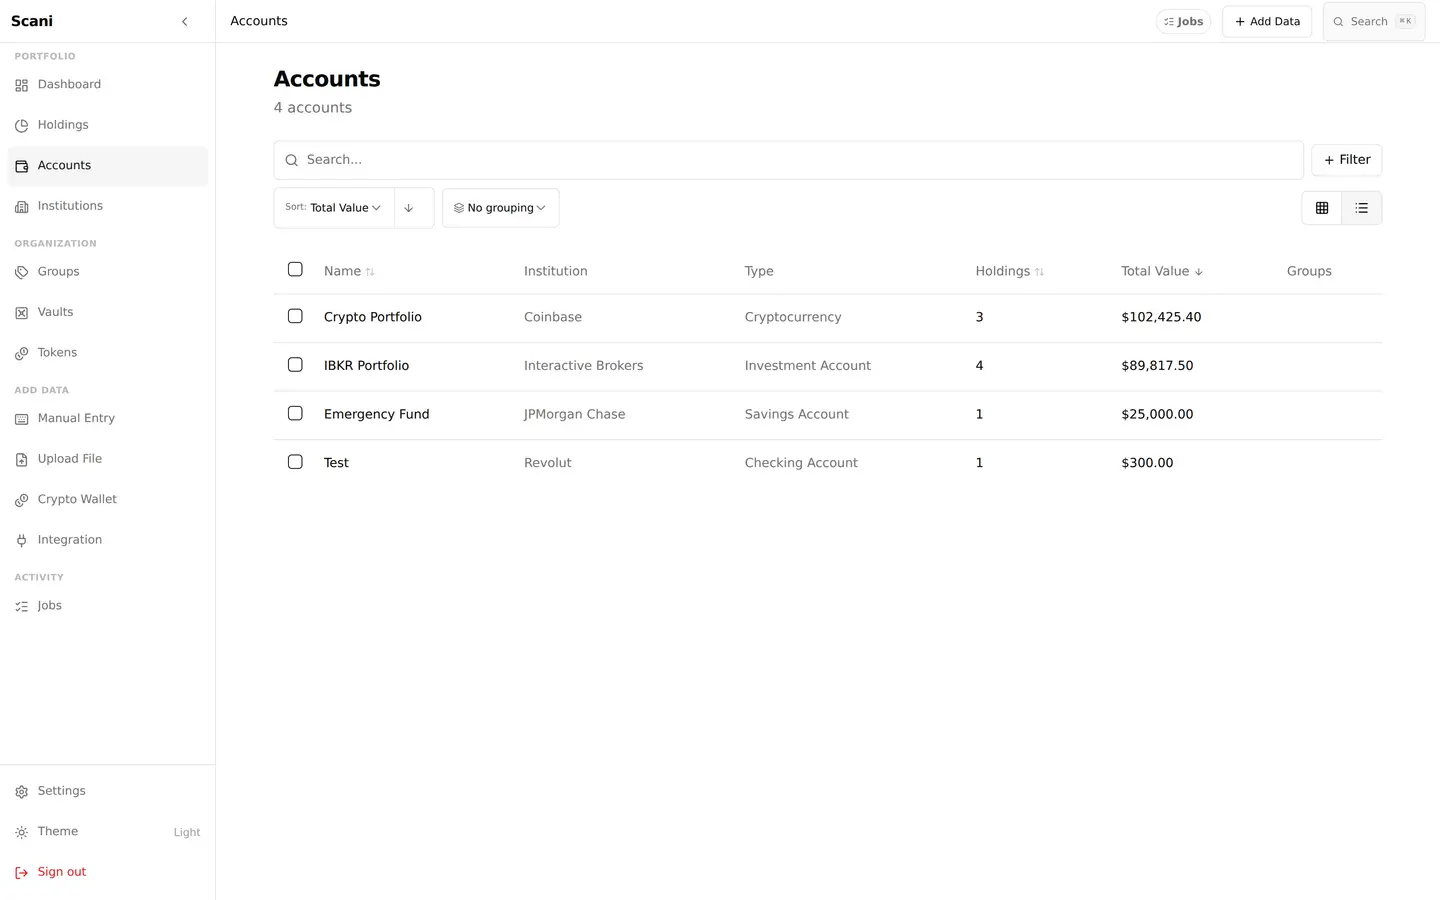
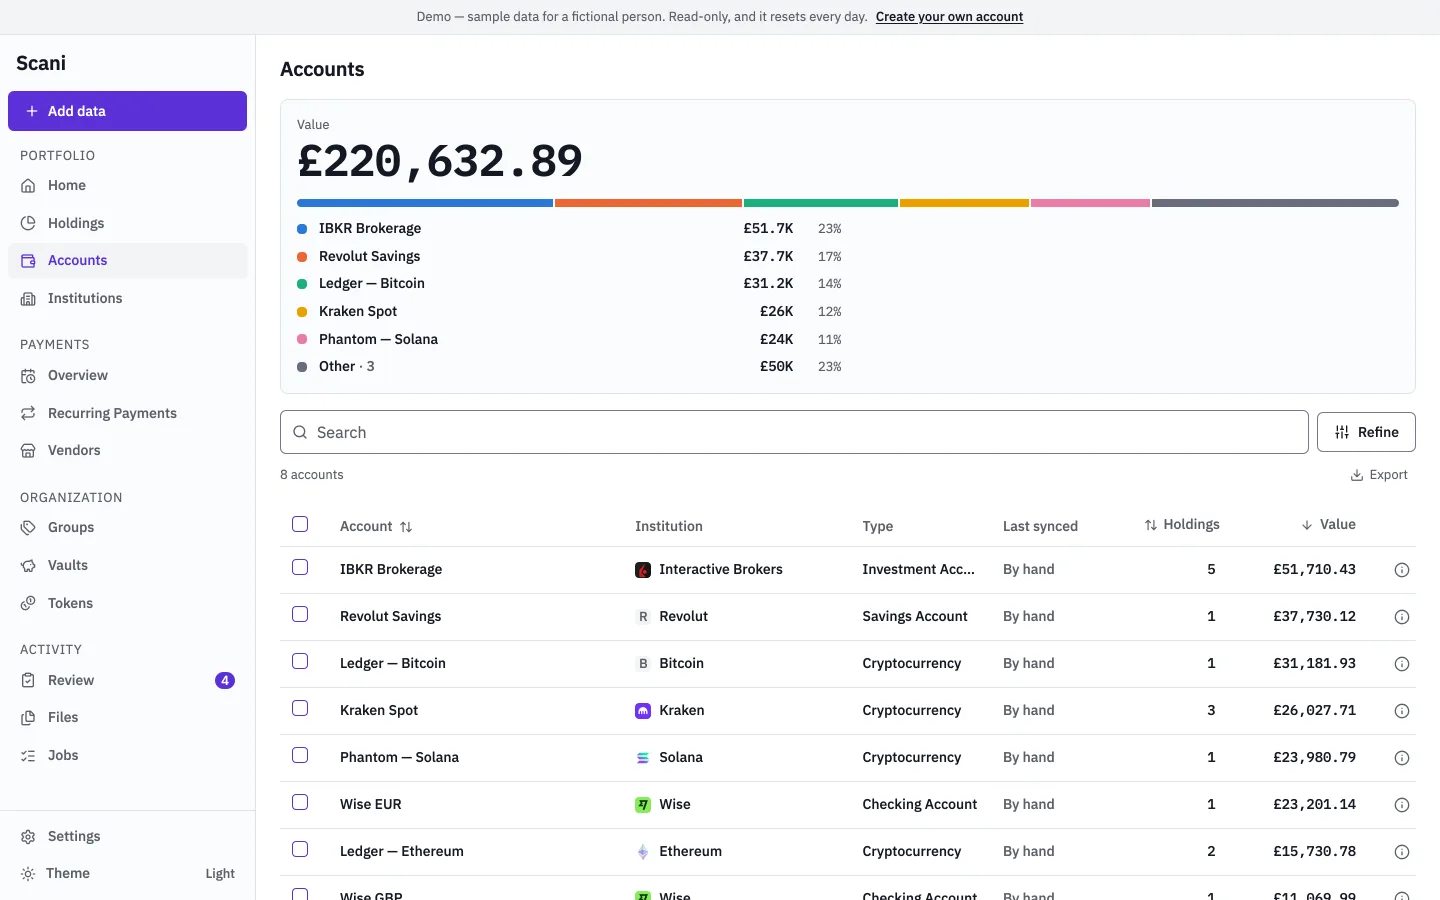
docs(readme): recapture demo screenshots and correct three claims (SC-468)
The committed screenshots were taken 2026-05-25 and show the pre-v3
interface. SC-82 fixed exactly this for the landing shots; these are a
different asset set and nothing pointed at them, because an out-of-date
image is not a broken one and no check can see the difference.

Recaptured from demo.scani.xyz, which is seeded from one fixture and
resets daily, so a re-run reproduces the same numbers. Added a fifth
screen for Money: recurring bills and expected income is what separates
this from a portfolio tracker, and no screenshot showed it.

Claims corrected against the code:

- The data-provider no longer exposes `pricing.*` or `ai.*`. Both were
  deleted in SC-587 and only `chains.*` survives, with no live caller.
  `apps/backend/data-provider/README.md:42` already said so; this file
  was the stale copy.
- Airwallex is a shipped connector and was missing from the brokerages
  and banks line. The integrations screenshot lists it first, so the
  prose contradicted the image beside it.
- ENS is reverse-resolution only, used to label Ethereum addresses.
  `packages/clients/providers/src/providers/etherscan/README.md:70`
  records that an ENS name is not accepted as input, so a reader who
  pastes one is refused.

The integrations caption described a catalog of exchanges, on-chain,
brokerages, pricing and AI. The page shows the 15 credentialed
connectors only; chains, pricing and AI take no per-user credential.
[…]

diff --git a/apps/e2e/scripts/capture-readme-shots.ts b/apps/e2e/scripts/capture-readme-shots.ts
@@ -1,0 +1,181 @@
+#!/usr/bin/env bun
+/**
+ * Recapture the README product screenshots from the public demo.
+ *
+ * The demo is what makes these reproducible: it is seeded from one fixture
+ * and resets on a schedule, so a run today and a run next month produce the
+ * same numbers. A local stack does not — the shots then depend on whatever
+ * that session happened to seed, and nothing downstream can tell a current
+ * screenshot from a stale one. The committed set drifted a full UI generation
+ * behind the product (captured 2026-05-25, pre-v3) without any check firing,
+ * because an out-of-date image is not a broken one.
+ *
+ *   cd apps/e2e && bun run shots:readme
+ *   cd apps/e2e && bun run shots:readme -- --slugs=dashboard --themes=dark
+ *   cd apps/e2e && bun run shots:readme -- --url=http://localhost:5173
+ *
+ * Writes `.github/assets/screenshots/<slug>-<theme>-desktop.webp`, which is
+ * what README.md's <picture> elements reference by name. Needs `cwebp`
+ * (`brew install webp`); Playwright emits PNG only.
+ *
+ * It lives here rather than in `scripts/` because `@playwright/test` is
+ * declared in this workspace and nowhere else. The hoisted linker would have
+ * let a root-level copy resolve `playwright` anyway and fail only the
+ * declaration check, on the public mirror, which is the first thing an
+ * outside contributor sees (SC-889).
+ */
+
+import { mkdir, rm, writeFile } from 'node:fs/promises';
+import { resolve } from 'node:path';
+import { chromium, type Page } from '@playwright/test';
+
+const REPO_ROOT = resolve(import.meta.dir, '../../..');
+const OUT_DIR = resolve(REPO_ROOT, '.github/assets/screenshots');
+
+/**
+ * `--url` rather than an env var, deliberately. `docs:check`'s env-coverage
+ * scan reads every `process.env.X` under `apps/` and warns on any name absent
+ * from `.env.example` or the env reference — and five tests assert
+ * `all N checks passed`, so a warning here reddens the whole gate. Documenting
+ * a capture-tool override beside the variables a self-hoster must set would be
+ * the worse fix: it is not one of them.
+ */
+const DEMO_URL = (parseValue('url') ?? 'https://demo.scani.xyz').replace(/\/$/, '');
+
+/**
+ * Captured at 2x and downsampled to this, which supersamples the text. GitHub
+ * renders a README image at roughly 830 CSS px, so 1440 still has headroom on
+ * a retina display without shipping a 2880px asset in the clone.
+ */
+const WIDTH = 1440;
+const VIEWPORT = { width: WIDTH, height: 900 };
+const THEMES = ['light', 'dark'] as const;
+type Theme = (typeof THEMES)[number];
+
+interface Shot {
+  slug: string;
+  path: string;
+  /**
+   * A heading the route renders only once its own data has resolved. Waiting
+   * on the app shell photographs a skeleton instead, and a skeleton is a
+   * plausible-looking screenshot rather than an error — which is the failure
+   * mode this whole script exists to make visible.
+   */
+  ready: string;
+}
+
+const SHOTS: Shot[] = [
+  // The dashboard renders no <h1>; "Top holdings" is the last card to resolve.
+  { slug: 'dashboard', path: '/', ready: 'Top holdings' },
+  { slug: 'holdings', path: '/holdings', ready: 'Holdings' },
+  { slug: 'accounts', path: '/accounts', ready: 'Accounts' },
+  { slug: 'money', path: '/payments', ready: 'Money' },
+  { slug: 'integrations', path: '/integrations', ready: 'Connect a service' },
+];
+
+function parseValue(flag: string): string | null {
+  const raw = process.argv.find((a) => a.startsWith(`--${flag}=`));
+  return raw ? raw.slice(flag.length + 3) : null;
+}
+
+function parseList(flag: string, known: string[]): string[] | null {
+  const raw = process.argv.find((a) => a.startsWith(`--${flag}=`));
+  if (!raw) return null;
+  const picked = raw
+    .slice(flag.length + 3)
+    .split(',')
+    .map((s) => s.trim())
+    .filter(Boolean);
+  for (const name of picked) {
+    if (!known.includes(name)) {
+      throw new Error(`Unknown --${flag} entry "${name}"; known: ${known.join(', ')}`);
+    }
+  }
+  return picked;
+}
+
+async function settle(page: Page): Promise<void> {
+  await page.waitForLoadState('networkidle');
+  await page.evaluate(() => document.fonts.ready);
+  await page.waitForTimeout(1500);
+}
+
+async function toWebp(pngPath: string, webpPath: string): Promise<void> {
+  const proc = Bun.spawnSync([
+    'cwebp',
+    '-quiet',
+    '-q',
+    '82',
+    '-resize',
+    String(WIDTH),
+    '0',
+    pngPath,
+    '-o',
+    webpPath,
+  ]);
+  if (proc.exitCode !== 0) {
+    throw new Error(
+      `cwebp failed on ${pngPath} (exit ${proc.exitCode}). Install it with \`brew install webp\`.\n${new TextDecoder().decode(
+        proc.stderr
+      )}`
+    );
+  }
+}
+
+async function main(): Promise<void> {
+  const slugs = parseList(
+    'slugs',
+    SHOTS.map((s) => s.slug)
+  );
+  const themes = (parseList('themes', [...THEMES]) ?? [...THEMES]) as Theme[];
+  const shots = slugs ? SHOTS.filter((s) => slugs.includes(s.slug)) : SHOTS;
+
+  await mkdir(OUT_DIR, { recursive: true });
+  console.log(`capture-readme-shots: ${DEMO_URL} -> ${OUT_DIR}`);
+
+  const browser = await chromium.launch();
+  let written = 0;
+
+  try {
+    for (const theme of themes) {
+      const context = await browser.newContext({
+        viewport: VIEWPORT,
+        deviceScaleFactor: 2,
+        colorScheme: theme,
+      });
+      // ThemeProvider reads this before first paint and only falls back to
+      // prefers-color-scheme when it is unset, so setting both is what makes
+      // the theme deterministic rather than dependent on load order.
+      await context.addInitScript((value) => {
+        window.localStorage.setItem('scani-theme', value as string);
+      }, theme);
+
+      const page = await context.newPage();
+      for (const shot of shots) {
+        const url = `${DEMO_URL}${shot.path}`;
+        await page.goto(url, { waitUntil: 'domcontentloaded' });
+        await page
+          .getByRole('heading', { name: shot.ready, exact: true })
+          .first()
+          .waitFor({ state: 'visible', timeout: 30_000 });
+        await settle(page);
+
+        const stem = `${shot.slug}-${theme}-desktop`;
+        const pngPath = resolve(OUT_DIR, `${stem}.png`);
+        const webpPath = resolve(OUT_DIR, `${stem}.webp`);
+        await writeFile(pngPath, await page.screenshot({ type: 'png' }));
+        await toWebp(pngPath, webpPath);
+        await rm(pngPath, { force: true });
+        written += 1;
+        console.log(`  ok ${stem}  ${url}`);
+      }
+      await context.close();
+    }
+  } finally {
+    await browser.close();
+  }
+
+  console.log(`capture-readme-shots: wrote ${written} file(s)`);
+}
+
+await main();

diff --git a/README.md b/README.md
@@ -81,6 +81,14 @@ and is auto-merged by `docker compose` on every command.
   <img alt="Scani holdings — positions across all connected sources" src="./.github/assets/screenshots/holdings-light-desktop.webp">
 </picture>
 
+**Money** — recurring bills and expected income, in every currency you
+hold, converted at today's rates.
+
+<picture>
+  <source media="(prefers-color-scheme: dark)" srcset="./.github/assets/screenshots/money-dark-desktop.webp">
+  <img alt="Scani money — recurring bills and expected income" src="./.github/assets/screenshots/money-light-desktop.webp">
+</picture>
+
 **Accounts** — exchanges, wallets, and brokerages grouped by institution.
 
 <picture>
@@ -88,7 +96,9 @@ and is auto-merged by `docker compose` on every command.
   <img alt="Scani accounts — exchanges, wallets, and brokerages grouped by institution" src="./.github/assets/screenshots/accounts-light-desktop.webp">
 </picture>
 
-**Integrations** — the connector catalog: exchanges, on-chain, brokerages, pricing, AI.
+**Integrations** — the 15 credentialed connectors: exchanges, brokerages
+and banks. Read-only API keys, encrypted at rest. Chains, pricing and AI
+need no per-user credential and are configured with your own keys in `.env`.
 
 <picture>
   <source media="(prefers-color-scheme: dark)" srcset="./.github/assets/screenshots/integrations-dark-desktop.webp">
@@ -281,9 +291,9 @@ Three deployable Bun services + one SPA:
   call for object storage, the email transport, Open Graph metadata and
   token search. This is the seam between the tiers: in Tier 1 it's on
   `localhost:8082`, in Tier 2/3 it's a hosted endpoint. It also exposes
-  `pricing.*`, `ai.*` and `chains.*` routers, which the api and worker
-  do **not** use — those calls are made directly, from their own
-  environment's keys.
+  a `chains.*` router that has no live caller today. Pricing and AI
+  calls never come here at all — the api and worker make them directly,
+  from their own environment's keys.
 - **`apps/frontend/app`** — React + Vite SPA. tRPC client end-to-end
   type-safe with the api.
 
@@ -316,11 +326,13 @@ Out of the box, Scani knows how to talk to:
 **Exchanges**: Binance, Bitget, Bitstamp, Bybit, Coinbase, Gate.io,
 Gemini, Huobi, Kraken, KuCoin, MEXC, OKX
 
-**Brokerages / banks**: Interactive Brokers (Flex Web Service), Wise
+**Brokerages / banks**: Interactive Brokers (Flex Web Service), Wise,
+Airwallex
 
 **On-chain**: Ethereum + every EVM chain Etherscan V2 supports
 (Polygon, Arbitrum, Optimism, Base, …), Solana (via Helius), Bitcoin,
-Tron, TON, ENS
+Tron, TON. Ethereum addresses are labelled by ENS reverse-resolution;
+an ENS name is not accepted as input.
 
 **Pricing**: CoinGecko, Finnhub, DeFiLlama, ExchangeRate-API, Yahoo
 Finance, Google Sheets (for manual-asset prices)

diff --git a/apps/frontend/docs/src/content/docs/self-hosting/tier2/user-creds.md b/apps/frontend/docs/src/content/docs/self-hosting/tier2/user-creds.md
@@ -31,7 +31,7 @@ this page's title.** Object storage is one of the four capabilities
 Tier 2 moves, so those bytes live in the **operator's** bucket, not
 yours. What the file *yielded* — the extracted holdings and
 transactions — is rows in your Postgres and stays there. On Tier 1
-the bucket is yours too and nothing about a file leaves.
+the bucket is yours too.
 
 ## What the data-provider does see
 
